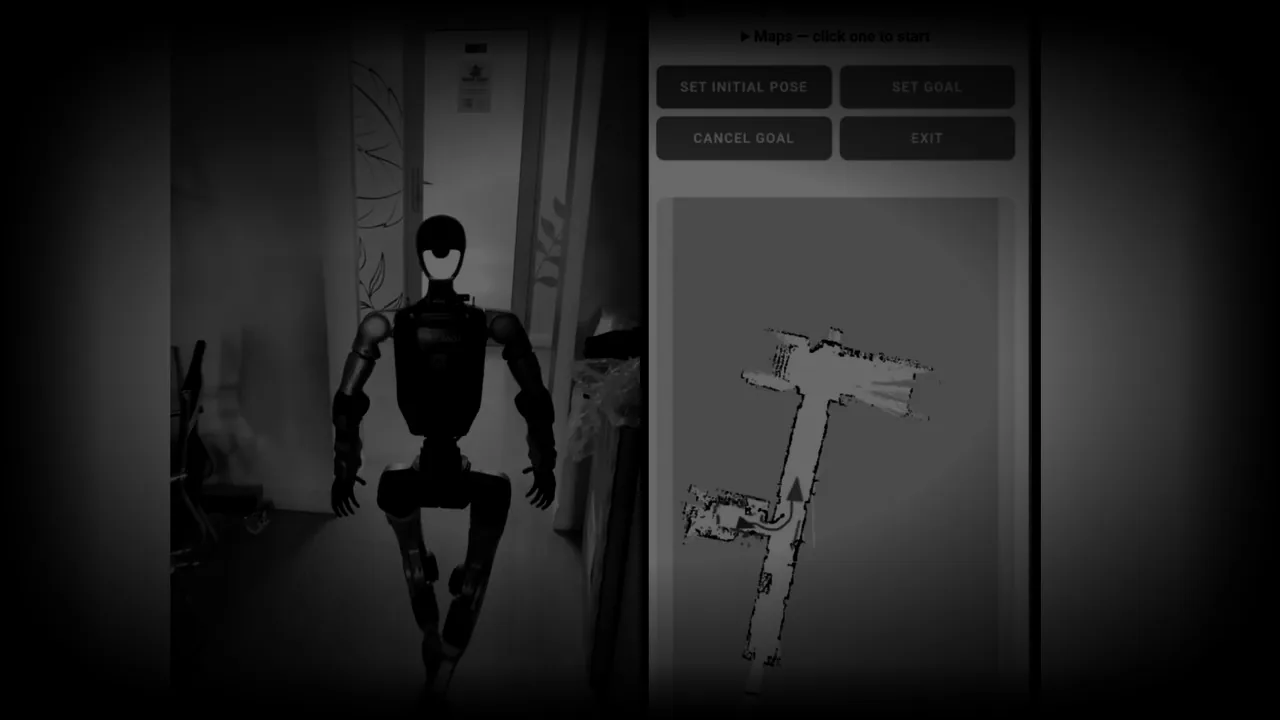
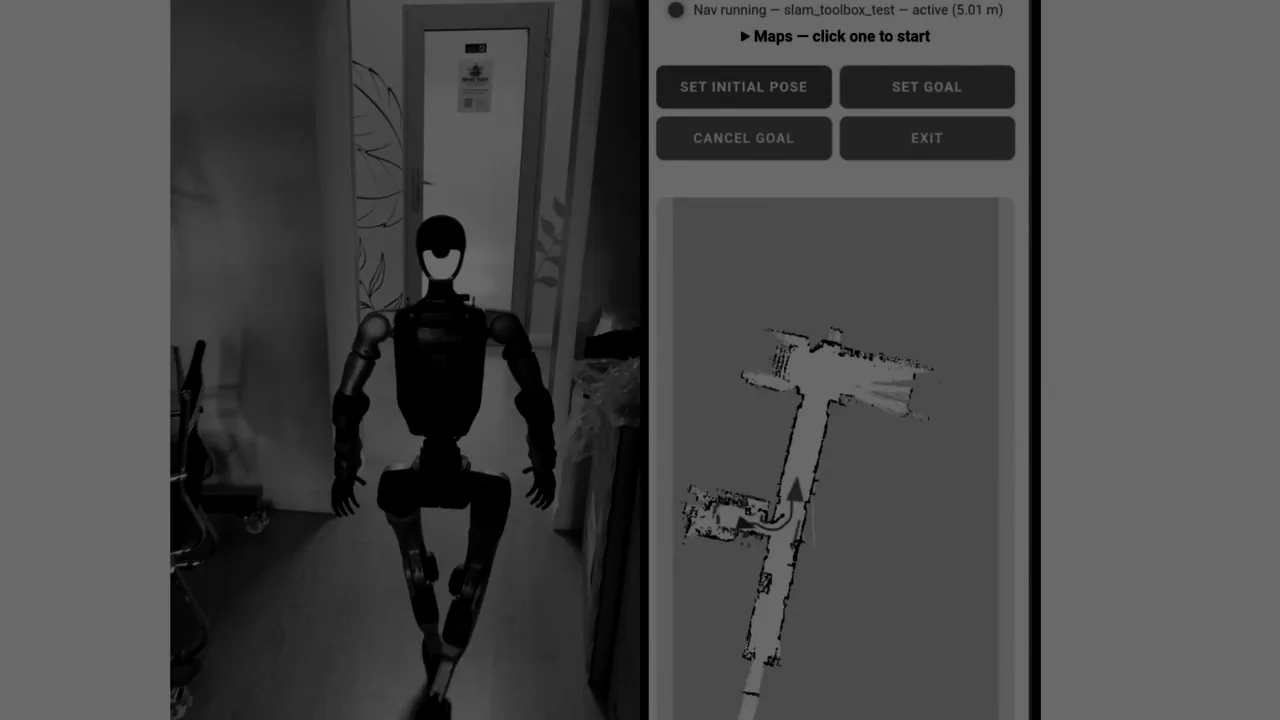
Remove the vignette from the video posters
The dark greyscale stills keep their full frame instead of fading to black
at the edges; tools/dark-posters.py no longer applies the radial and edge
fades.

Claude-Session: https://claude.ai/code/session_018rEHNHrtF5dDKRG69CQNPH

diff --git a/tools/dark-posters.py b/tools/dark-posters.py
@@ -2,7 +2,7 @@
 # /// script
 # dependencies = ["numpy>=1.26", "pillow>=10.1"]
 # ///
-"""Dark posters: every *.jpg in a folder as a very dark, vignetted greyscale webp.
+"""Dark posters: every *.jpg in a folder as a very dark greyscale webp, no vignette.
 
     uv run tools/dark-posters.py assets/posters
 
@@ -15,12 +15,6 @@ for p in sorted(glob.glob(d + '/*.jpg')):
     g = np.asarray(im, dtype=np.float32) / 255
     h, w = g.shape
     v = np.clip((g - 0.12) / 0.88, 0, 1) ** 1.35 * 0.42
-    yy, xx = np.mgrid[0:h, 0:w].astype(np.float32)
-    nx, ny = (xx / w - 0.5) * 2, (yy / h - 0.5) * 2
-    r = np.sqrt(nx ** 2 * 0.8 + ny ** 2 * 0.8)
-    vig = np.clip(1 - (r - 0.5) / 0.62, 0, 1) ** 1.5
-    edge = np.clip(np.minimum.reduce([xx / (0.08 * w), (w - xx) / (0.08 * w), yy / (0.08 * h), (h - yy) / (0.08 * h)]), 0, 1)
-    v = v * vig * edge
     out = Image.fromarray((v * 255).astype(np.uint8))
     name = os.path.splitext(p)[0] + '-dark.webp'
     out.save(name, quality=82, method=6)
